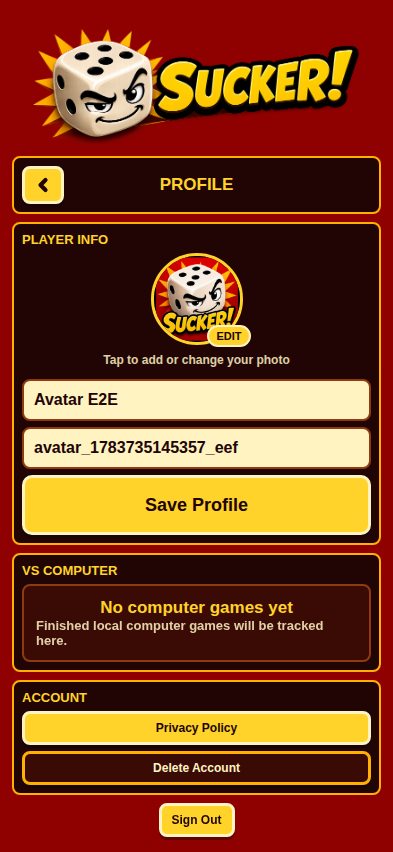
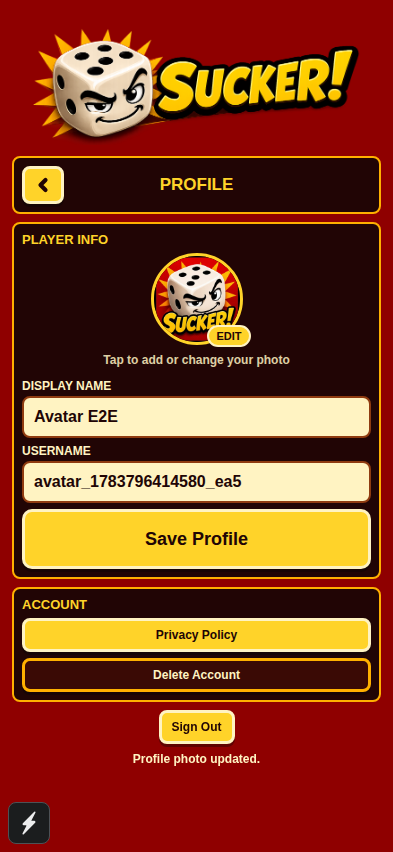
Clean up profile details

diff --git a/src/multiplayer/MultiplayerLobby.tsx b/src/multiplayer/MultiplayerLobby.tsx
@@ -20,7 +20,6 @@ import {
 } from 'react-native';
 import Svg, { Path } from 'react-native-svg';
 import { useSafeAreaInsets } from 'react-native-safe-area-context';
-import { getComputerStats } from './computerStats';
 import {
   createGameAgainst,
   createRematch,
@@ -50,7 +49,6 @@ import { PlayerAvatar } from '../ui/PlayerAvatar';
 import { formatRecord } from '../ui/statsFormat';
 
 type SearchProfile = Awaited<ReturnType<typeof searchProfiles>>[number];
-type ComputerStatsRow = Awaited<ReturnType<typeof getComputerStats>>;
 type HeadToHeadStatsSnapshot = Awaited<ReturnType<typeof getHeadToHeadStats>>;
 type LobbyPage = 'games' | 'profile' | 'startFriend' | 'completedGames' | 'completedGameDetail' | 'completedGameStats';
 type WebNotificationPermission = 'default' | 'denied' | 'granted';
@@ -106,7 +104,6 @@ export function MultiplayerLobby({
   const [username, setUsername] = useState('');
   const [inviteCode, setInviteCode] = useState('');
   const [generatedInviteCode, setGeneratedInviteCode] = useState<string | null>(null);
-  const [computerStats, setComputerStats] = useState<ComputerStatsRow>(null);
   const [allTimeOpponentRecord, setAllTimeOpponentRecord] = useState<AllTimeOpponentRecord | null>(null);
   const [completedGameStats, setCompletedGameStats] = useState<HeadToHeadStatsSnapshot | null>(null);
   const [message, setMessage] = useState<string | null>(null);
@@ -184,7 +181,6 @@ export function MultiplayerLobby({
   useEffect(() => {
     if (session) {
       void refreshGames();
-      void refreshComputerStats();
     }
 
     if (profile) {
@@ -318,11 +314,6 @@ export function MultiplayerLobby({
     } finally {
       setIsBusy(false);
     }
-  }
-
-  async function refreshComputerStats() {
-    const nextStats = await getComputerStats();
-    setComputerStats(nextStats);
   }
 
   async function handleEnableWebNotifications() {
@@ -1010,23 +1001,31 @@ export function MultiplayerLobby({
             </Pressable>
             <Text style={lobbyStyles.avatarHelpText}>Tap to add or change your photo</Text>
           </View>
-          <TextInput
-            onChangeText={setDisplayName}
-            placeholder="Display name"
-            placeholderTextColor="#8A4B12"
-            style={lobbyStyles.input}
-            testID="display-name-input"
-            value={displayName}
-          />
-          <TextInput
-            autoCapitalize="none"
-            onChangeText={setUsername}
-            placeholder="Username"
-            placeholderTextColor="#8A4B12"
-            style={lobbyStyles.input}
-            testID="username-input"
-            value={username}
-          />
+          <View style={lobbyStyles.profileField}>
+            <Text style={lobbyStyles.profileFieldLabel}>Display name</Text>
+            <TextInput
+              accessibilityLabel="Display name"
+              onChangeText={setDisplayName}
+              placeholder="Display name"
+              placeholderTextColor="#8A4B12"
+              style={lobbyStyles.input}
+              testID="display-name-input"
+              value={displayName}
+            />
+          </View>
+          <View style={lobbyStyles.profileField}>
+            <Text style={lobbyStyles.profileFieldLabel}>Username</Text>
+            <TextInput
+              accessibilityLabel="Username"
+              autoCapitalize="none"
+              onChangeText={setUsername}
+              placeholder="Username"
+              placeholderTextColor="#8A4B12"
+              style={lobbyStyles.input}
+              testID="username-input"
+              value={username}
+            />
+          </View>
           <Pressable
             disabled={isBusy || displayName.trim().length === 0}
             onPress={() =>
@@ -1044,8 +1043,6 @@ export function MultiplayerLobby({
             <Text style={lobbyStyles.primaryButtonText}>Save Profile</Text>
           </Pressable>
         </View>
-
-        <ComputerStatsCard stats={computerStats} />
 
         <View style={lobbyStyles.panel}>
           <Text style={lobbyStyles.sectionTitle}>Account</Text>
@@ -1833,71 +1830,6 @@ function ScorecardComparisonRow({
   );
 }
 
-function ComputerStatsCard({ stats }: { stats: ComputerStatsRow }) {
-  if (!stats || stats.games_played === 0) {
-    return (
-      <View style={lobbyStyles.panel}>
-        <Text style={lobbyStyles.sectionTitle}>Vs Computer</Text>
-        <View style={lobbyStyles.emptyState}>
-          <Text style={lobbyStyles.emptyTitle}>No computer games yet</Text>
-          <Text style={lobbyStyles.emptyBody}>Finished local computer games will be tracked here.</Text>
-        </View>
-      </View>
-    );
-  }
-
-  return (
-    <View style={lobbyStyles.panel}>
-      <Text style={lobbyStyles.sectionTitle}>Vs Computer</Text>
-      <View style={lobbyStyles.statGrid}>
-        <StatTile label="Record" value={formatRecord(stats.wins, stats.losses, stats.games_played)} />
-        <StatTile label="Games" value={String(stats.games_played)} />
-        <StatTile label="Avg" value={String(stats.average_score)} />
-        <StatTile label="High" value={String(stats.highest_score)} />
-      </View>
-      <View style={lobbyStyles.statRow}>
-        <Text style={lobbyStyles.statLine}>Upper bonus {formatPct(stats.upper_bonus_games, stats.games_played)}</Text>
-        <Text style={lobbyStyles.statLine}>Sucker {formatPct(stats.sucker_games, stats.games_played)}</Text>
-      </View>
-      <View style={lobbyStyles.statRow}>
-        <Text style={lobbyStyles.statLine}>3x {formatPct(stats.three_of_a_kind_games, stats.games_played)}</Text>
-        <Text style={lobbyStyles.statLine}>4x {formatPct(stats.four_of_a_kind_games, stats.games_played)}</Text>
-      </View>
-      <View style={lobbyStyles.statRow}>
-        <Text style={lobbyStyles.statLine}>Full {formatPct(stats.full_house_games, stats.games_played)}</Text>
-        <Text style={lobbyStyles.statLine}>
-          Straights {formatPct(stats.small_straight_games + stats.large_straight_games, stats.games_played)}
-        </Text>
-      </View>
-      <View style={lobbyStyles.statRow}>
-        <Text style={lobbyStyles.statLine}>Extra rolls {stats.extra_rolls_used ?? 0}</Text>
-        <Text style={lobbyStyles.statLine}>Mulligans {stats.mulligans_used ?? 0}</Text>
-      </View>
-      <View style={lobbyStyles.statRow}>
-        <Text style={lobbyStyles.statLine}>Blowouts {stats.blowout_wins ?? 0}</Text>
-        <Text style={lobbyStyles.statLine}>Comebacks {stats.comeback_wins ?? 0}</Text>
-      </View>
-      <View style={lobbyStyles.statRow}>
-        <Text style={lobbyStyles.statLine}>Buzzer beaters {stats.buzzer_beater_wins ?? 0}</Text>
-      </View>
-      <View style={lobbyStyles.statRow}>
-        <Text style={lobbyStyles.statLine}>Punches thrown {stats.sucker_punches_used ?? 0}</Text>
-        <Text style={lobbyStyles.statLine}>
-          Landed {formatPct(stats.sucker_punches_landed ?? 0, stats.sucker_punches_used ?? 0)}
-        </Text>
-      </View>
-      <View style={lobbyStyles.statRow}>
-        <Text style={lobbyStyles.statLine}>Hunts {stats.sucker_hunts ?? 0}</Text>
-        <Text style={lobbyStyles.statLine}>Misses {stats.sucker_hunt_misses ?? 0}</Text>
-      </View>
-      <View style={lobbyStyles.statRow}>
-        <Text style={lobbyStyles.statLine}>Avg used {formatNumber(stats.average_sucker_tokens_spent ?? 0)}</Text>
-        <Text style={lobbyStyles.statLine}>Avg left {formatNumber(stats.average_sucker_tokens_leftover ?? 0)}</Text>
-      </View>
-    </View>
-  );
-}
-
 function AllTimeRecordCard({ record }: { record: AllTimeOpponentRecord | null }) {
   return (
     <View style={lobbyStyles.panel} testID="completed-all-time-record">
@@ -2013,14 +1945,6 @@ function waitForVisibleRefresh() {
   });
 }
 
-function formatPct(count: number, gamesPlayed: number) {
-  if (gamesPlayed === 0) {
-    return '0%';
-  }
-
-  return `${Math.round((count / gamesPlayed) * 100)}%`;
-}
-
 function formatWinLossRecord(record: AllTimeOpponentRecord) {
   return formatRecord(record.wins, record.losses, record.gamesPlayed);
 }
@@ -2031,10 +1955,6 @@ function formatWinRate(record: AllTimeOpponentRecord) {
   }
 
   return `${Math.round((record.wins / record.gamesPlayed) * 100)}%`;
-}
-
-function formatNumber(value: number) {
-  return Number(value).toFixed(2).replace(/\.00$/, '');
 }
 
 function formatScorecardScore(value: number | null) {
@@ -2656,6 +2576,16 @@ const lobbyStyles = StyleSheet.create({
     alignItems: 'center',
     gap: 8,
     paddingBottom: 6,
+  },
+  profileField: {
+    gap: 3,
+    width: '100%',
+  },
+  profileFieldLabel: {
+    color: '#FFF3C2',
+    fontSize: 12,
+    fontWeight: '900',
+    textTransform: 'uppercase',
   },
   pullRefreshIndicator: {
     alignItems: 'center',